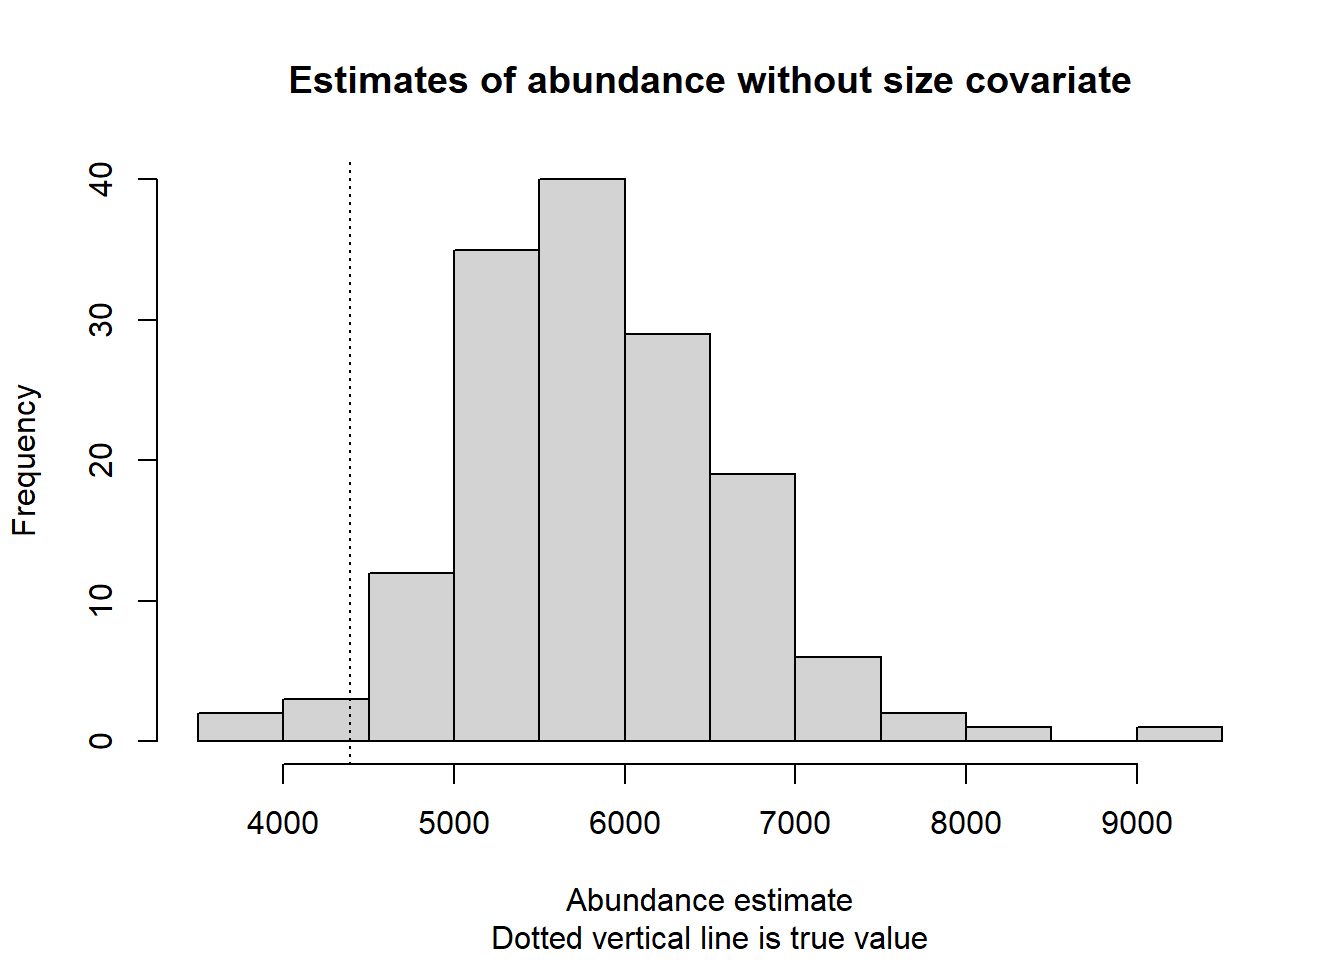
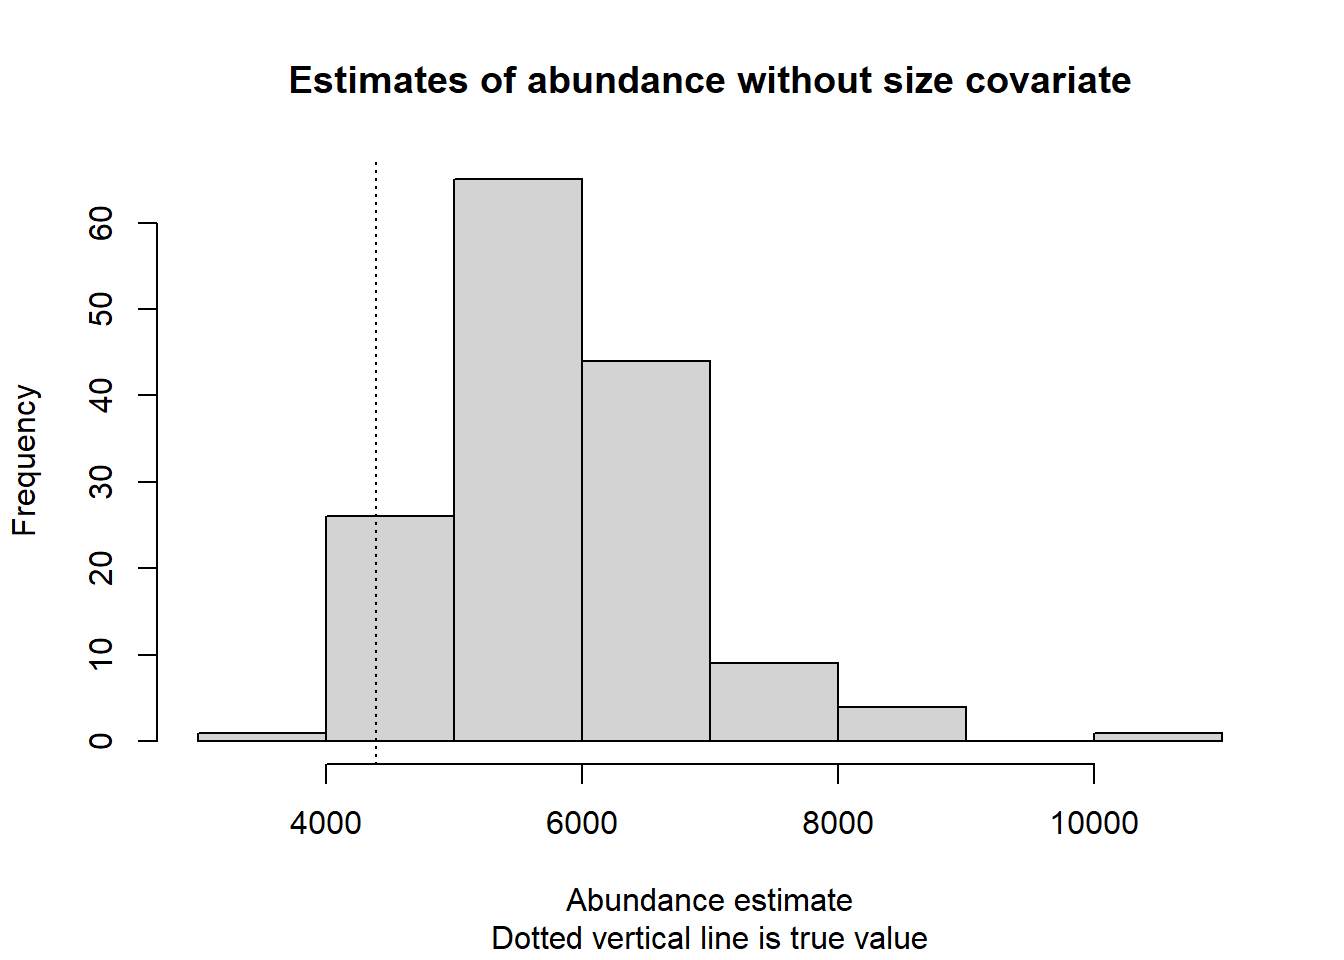
sidebar for all pr8 documents

diff --git a/docs/Pr8/Group-size-covariate.html b/docs/Pr8/Group-size-covariate.html
@@ -7,7 +7,7 @@
 <meta name="viewport" content="width=device-width, initial-scale=1.0, user-scalable=yes">
 
 <meta name="author" content="Centre for Research into Ecological and Environmental Modelling   University of St Andrews">
-<meta name="dcterms.date" content="2022-10-14">
+<meta name="dcterms.date" content="2022-10-26">
 
 <title>Distance sampling lab book - Size bias—how large is the problem?</title>
 <style>
@@ -225,6 +225,11 @@ code span.wa { color: #60a0b0; font-weight: bold; font-style: italic; } /* Warni
   <a href="../Pr8/alternative-selection-metrics.html" class="sidebar-item-text sidebar-link">Other model selection metrics</a>
   </div>
 </li>
+        <li class="sidebar-item">
+  <div class="sidebar-item-container"> 
+  <a href="../Pr8/Prac8_solution.html" class="sidebar-item-text sidebar-link">Covariates in the detection function <strong>solution</strong></a>
+  </div>
+</li>
     </ul>
     </div>
 </nav>
@@ -271,7 +276,7 @@ code span.wa { color: #60a0b0; font-weight: bold; font-style: italic; } /* Warni
     <div>
     <div class="quarto-title-meta-heading">Published</div>
     <div class="quarto-title-meta-contents">
-      <p class="date">October 14, 2022</p>
+      <p class="date">October 26, 2022</p>
     </div>
   </div>
   
@@ -296,8 +301,7 @@ Supplement
 </div>
 <section id="size-bias-in-distance-sampling-surveys" class="level1">
 <h1>Size bias in distance sampling surveys</h1>
-<p>As shown in the lecture, if detectability is a function not only of distance, but also size (big groups are easier to see than small groups), then groups in the sample are likely to be larger than groups in the entire population. Consequently, when the density of groups is scaled up to the density of individuals</p>
-<p><span class="math display">\[\hat{D}_{indiv} = \hat{D}_{groups} \times \overline{size}_{group}\]</span></p>
+<p>As shown in the lecture, if detectability is a function not only of distance, but also size (big groups are easier to see than small groups), then groups in the sample are likely to be larger than groups in the entire population. Consequently, when the density of groups is scaled up to the density of individuals <span class="math display">\[\hat{D}_{indiv} = \hat{D}_{groups} \times \overline{size}_{group}\]</span></p>
 <p><span class="math inline">\(\hat{D}_{indiv}\)</span> is overestimated.</p>
 <p>A resolution to this problem is to explicitly model the probability of detection as a function of group size using <code>size</code> as a covariate in the detection function. I will demonstrate two applications: one where group size variability is small and one where group size variability is large. I will use simulation (where the answer is known) to demonstrate.</p>
 <p>The necessary syntax to include covariates, group size in this instance, in the detection function is:</p>
@@ -342,7 +346,7 @@ Supplement
 <p><img src="Group-size-covariate_files/figure-html/small-with-covar-1.png" class="img-fluid" width="768"></p>
 </div>
 </div>
-<p>The distribution of computed average group size centred on the true size of 10 and there was no problem with fitting a detection function. The average over the simulations estimated number of individuals was 2272.47.</p>
+<p>The distribution of computed average group size centred on the true size of 10 and there was no problem with fitting a detection function. The average over the simulations estimated number of individuals was 2244.38.</p>
 </section>
 <section id="analysis-without-group-size-covariate" class="level2">
 <h2 class="anchored" data-anchor-id="analysis-without-group-size-covariate">Analysis without group size covariate</h2>
@@ -352,7 +356,7 @@ Supplement
 <p><img src="Group-size-covariate_files/figure-html/nocov-10-1.png" class="img-fluid" width="768"></p>
 </div>
 </div>
-<p>The distribution of computed average groups sizes is shown above. We would expect an overestimate of mean group size because small groups at large distances are missing from our sample; but that effect is small in this instance. As a consequence, the average <span class="math inline">\(\hat{N}_{indiv}\)</span> across all simulations is 2304.95.</p>
+<p>The distribution of computed average groups sizes is shown above. We would expect an overestimate of mean group size because small groups at large distances are missing from our sample; but that effect is small in this instance. As a consequence, the average <span class="math inline">\(\hat{N}_{indiv}\)</span> across all simulations is 2310.65.</p>
 </section>
 </section>
 <section id="example-2-possible-dolphin-pods-or-seabird-rafts" class="level1">
@@ -380,7 +384,7 @@ Supplement
 <p><img src="Group-size-covariate_files/figure-html/unnamed-chunk-11-1.png" class="img-fluid" width="672"></p>
 </div>
 </div>
-<p>When including <code>size</code> as a covariate, estimates of average group size are not affected (figure above). Likewise, mean <span class="math inline">\(\hat{N}_{indiv}\)</span> is effectively unbiased: 5453.55.</p>
+<p>When including <code>size</code> as a covariate, estimates of average group size are not affected (figure above). Likewise, mean <span class="math inline">\(\hat{N}_{indiv}\)</span> is effectively unbiased: 5537.5.</p>
 </section>
 <section id="analysis-without-the-covariate" class="level2">
 <h2 class="anchored" data-anchor-id="analysis-without-the-covariate">Analysis without the covariate</h2>
@@ -389,7 +393,7 @@ Supplement
 <p><img src="Group-size-covariate_files/figure-html/lognor-without-1.png" class="img-fluid" width="672"></p>
 </div>
 </div>
-<p>Now mean <span class="math inline">\(\hat{N}_{indiv}\)</span> is <strong>considerably biased</strong>: 5829.77, 32.9 percent larger than the true number of individuals in the population, 4388.</p>
+<p>Now mean <span class="math inline">\(\hat{N}_{indiv}\)</span> is <strong>considerably biased</strong>: 5809.16, 32.4 percent larger than the true number of individuals in the population, 4388.</p>
 <div class="cell">
 <div class="cell-output-display">
 <p><img src="Group-size-covariate_files/figure-html/unnamed-chunk-13-1.png" class="img-fluid" width="672"></p>

diff --git a/docs/Pr8/Pr8-instructions.html b/docs/Pr8/Pr8-instructions.html
@@ -7,7 +7,7 @@
 <meta name="viewport" content="width=device-width, initial-scale=1.0, user-scalable=yes">
 
 <meta name="author" content="Centre for Research into Ecological and Environmental Modelling   University of St Andrews">
-<meta name="dcterms.date" content="2022-10-14">
+<meta name="dcterms.date" content="2022-10-26">
 
 <title>Distance sampling lab book - Covariates in detection function model</title>
 <style>
@@ -244,6 +244,11 @@ div.csl-indent {
   <a href="../Pr8/alternative-selection-metrics.html" class="sidebar-item-text sidebar-link">Other model selection metrics</a>
   </div>
 </li>
+        <li class="sidebar-item">
+  <div class="sidebar-item-container"> 
+  <a href="../Pr8/Prac8_solution.html" class="sidebar-item-text sidebar-link">Covariates in the detection function <strong>solution</strong></a>
+  </div>
+</li>
     </ul>
     </div>
 </nav>
@@ -291,7 +296,7 @@ div.csl-indent {
     <div>
     <div class="quarto-title-meta-heading">Published</div>
     <div class="quarto-title-meta-contents">
-      <p class="date">October 14, 2022</p>
+      <p class="date">October 26, 2022</p>
     </div>
   </div>
   

diff --git a/docs/Pr8/alternative-selection-metrics.html b/docs/Pr8/alternative-selection-metrics.html
@@ -7,7 +7,7 @@
 <meta name="viewport" content="width=device-width, initial-scale=1.0, user-scalable=yes">
 
 <meta name="author" content="Centre for Research into Ecological and Environmental Modelling   University of St Andrews">
-<meta name="dcterms.date" content="2022-10-14">
+<meta name="dcterms.date" content="2022-10-26">
 
 <title>Distance sampling lab book - Other model selection metrics</title>
 <style>
@@ -247,6 +247,11 @@ div.csl-indent {
   <a href="../Pr8/alternative-selection-metrics.html" class="sidebar-item-text sidebar-link active">Other model selection metrics</a>
   </div>
 </li>
+        <li class="sidebar-item">
+  <div class="sidebar-item-container"> 
+  <a href="../Pr8/Prac8_solution.html" class="sidebar-item-text sidebar-link">Covariates in the detection function <strong>solution</strong></a>
+  </div>
+</li>
     </ul>
     </div>
 </nav>
@@ -290,7 +295,7 @@ div.csl-indent {
     <div>
     <div class="quarto-title-meta-heading">Published</div>
     <div class="quarto-title-meta-contents">
-      <p class="date">October 14, 2022</p>
+      <p class="date">October 26, 2022</p>
     </div>
   </div>
   
